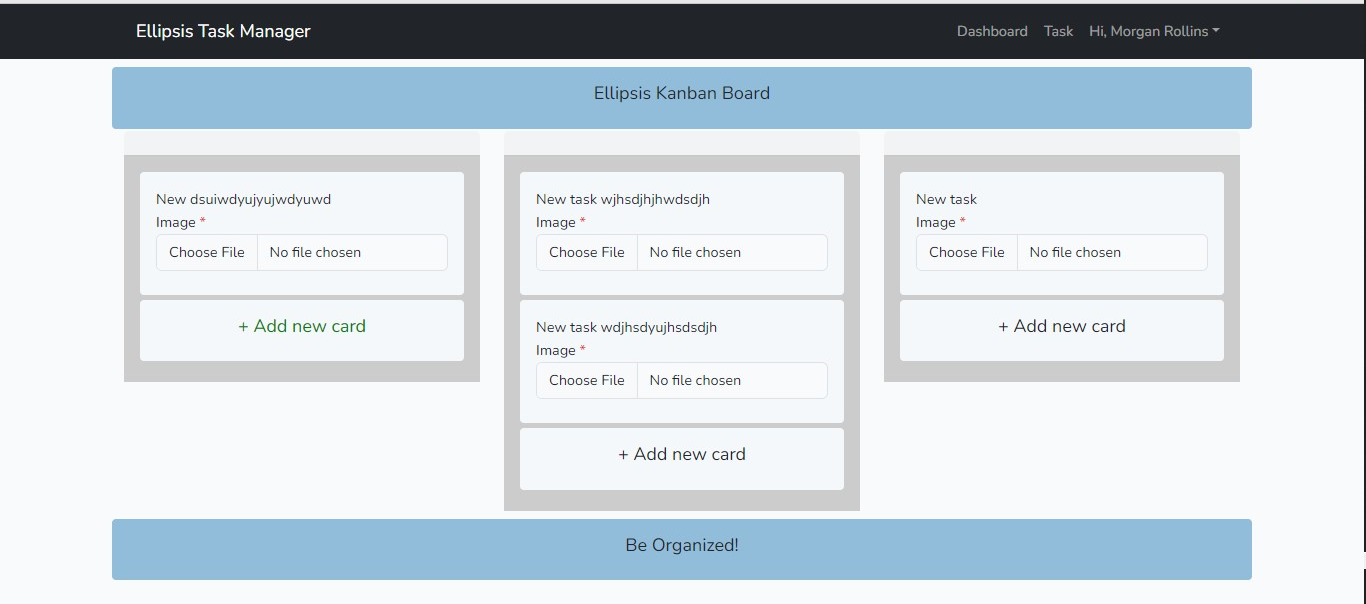
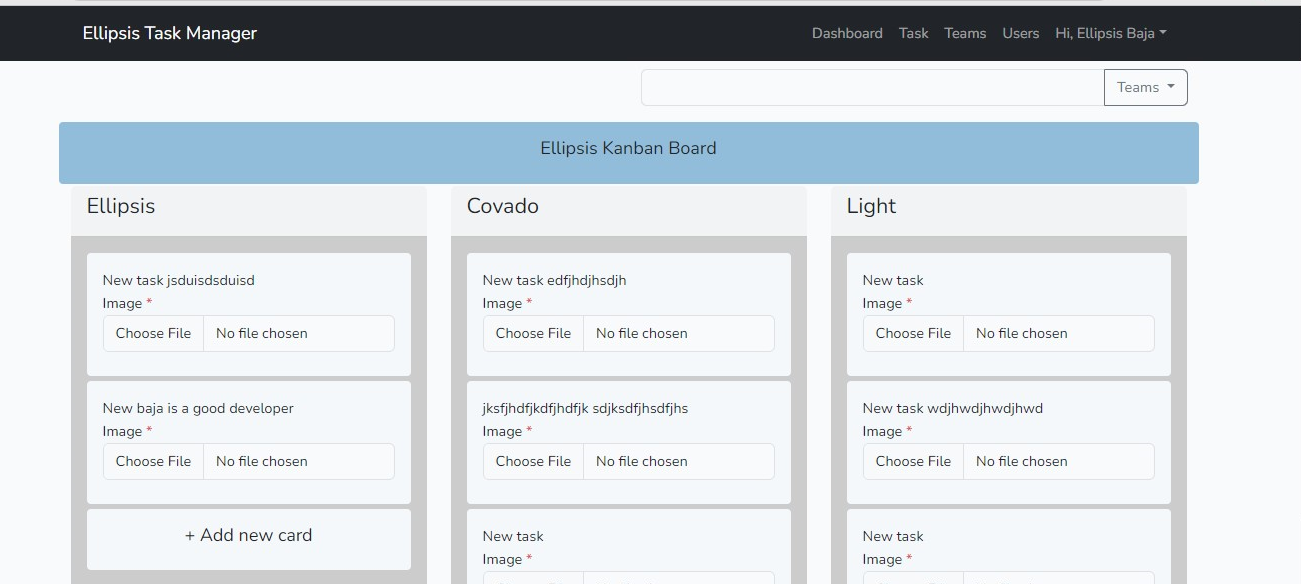
Adding up event broadcasting

diff --git a/resources/js/bootstrap.js b/resources/js/bootstrap.js
@@ -41,17 +41,19 @@ if (user_token) {
  * allows your team to easily build robust real-time web applications.
  */
 
-// import Echo from 'laravel-echo';
+import Echo from 'laravel-echo';
 
-// import Pusher from 'pusher-js';
-// window.Pusher = Pusher;
+import Pusher from 'pusher-js';
+window.Pusher = Pusher;
 
-// window.Echo = new Echo({
-//     broadcaster: 'pusher',
-//     key: import.meta.env.VITE_PUSHER_APP_KEY,
-//     wsHost: import.meta.env.VITE_PUSHER_HOST ?? `ws-${import.meta.env.VITE_PUSHER_APP_CLUSTER}.pusher.com`,
-//     wsPort: import.meta.env.VITE_PUSHER_PORT ?? 80,
-//     wssPort: import.meta.env.VITE_PUSHER_PORT ?? 443,
-//     forceTLS: (import.meta.env.VITE_PUSHER_SCHEME ?? 'https') === 'https',
-//     enabledTransports: ['ws', 'wss'],
-// });
+window.Echo = new Echo({
+    broadcaster: 'pusher',
+    key: import.meta.env.VITE_PUSHER_APP_KEY,
+    wsHost: import.meta.env.VITE_PUSHER_HOST ?? `ws-${import.meta.env.VITE_PUSHER_APP_CLUSTER}.pusher.com`,
+    wsPort: import.meta.env.VITE_PUSHER_PORT ?? 80,
+    wssPort: import.meta.env.VITE_PUSHER_PORT ?? 443,
+    forceTLS: (import.meta.env.VITE_PUSHER_SCHEME ?? 'https') === 'https',
+    enabledTransports: ['ws', 'wss'],
+    encrypted: false,
+    cluster:import.meta.env.VITE_PUSHER_APP_CLUSTER
+});

diff --git a/resources/js/components/User/Edit.vue b/resources/js/components/User/Edit.vue
@@ -129,7 +129,7 @@ export default {
           this.form = res.data.data;
         })
         .catch((error) => {
-          console.log(console.error);
+          console.log(error);
         });
     },
     getRoles() {
@@ -139,7 +139,7 @@ export default {
           this.roles = res.data;
         })
         .catch((error) => {
-          console.log(console.error);
+          console.log(error);
         });
     },
     updateUser() {
@@ -151,7 +151,7 @@ export default {
           this.$router.push({ name: "users" });
         })
         .catch((error) => {
-          console.log(console.error);
+          console.log(error);
         });
     },
   },

diff --git a/resources/js/components/Team/Create.vue b/resources/js/components/Team/Create.vue
@@ -66,7 +66,7 @@ export default {
           this.teams = res.data.data;
         })
         .catch((error) => {
-          console.log(console.error);
+          console.log(error);
         });
     },
     storeTeam() {
@@ -78,7 +78,7 @@ export default {
           this.$router.push({ name: "teams" });
         })
         .catch((error) => {
-          console.log(console.error);
+          console.log(error);
         });
     },
   },

diff --git a/resources/js/components/User/Create.vue b/resources/js/components/User/Create.vue
@@ -127,7 +127,7 @@ export default {
           this.roles = res.data;
         })
         .catch((error) => {
-          console.log(console.error);
+          console.log(error);
         });
     },
     storeUser() {
@@ -142,7 +142,7 @@ export default {
           this.$router.push({ name: "users" });
         })
         .catch((error) => {
-          console.log(console.error);
+          console.log(error);
         });
     },
   },

diff --git a/resources/js/components/Team/Edit.vue b/resources/js/components/Team/Edit.vue
@@ -68,7 +68,7 @@ export default {
           this.form = res.data;
         })
         .catch((error) => {
-          console.log(console.error);
+          console.log(error);
         });
     },
     updateTask() {
@@ -80,7 +80,7 @@ export default {
           this.$router.push({ name: "teams" });
         })
         .catch((error) => {
-          console.log(console.error);
+          console.log(error);
         });
     },
   },

diff --git a/resources/js/components/Board.vue b/resources/js/components/Board.vue
@@ -46,7 +46,7 @@
               <div class="col-md-4">
                 <div class="card">
                   <div class="card-header">
-                    <h4 class="card-title"></h4>
+                    <h4 class="card-title">{{ element.name }}</h4>
                   </div>
                   <div class="card-body card-body-dark">
                     <div class="transit-1">

diff --git a/config/app.php b/config/app.php
@@ -4,17 +4,6 @@ use Illuminate\Support\Facades\Facade;
 
 return [
 
-    /*
-    |--------------------------------------------------------------------------
-    | Application Name
-    |--------------------------------------------------------------------------
-    |
-    | This value is the name of your application. This value is used when the
-    | framework needs to place the application's name in a notification or
-    | any other location as required by the application or its packages.
-    |
-    */
-
     'name' => env('APP_NAME', 'Laravel'),
 
     /*
@@ -191,7 +180,7 @@ return [
          */
         App\Providers\AppServiceProvider::class,
         App\Providers\AuthServiceProvider::class,
-        // App\Providers\BroadcastServiceProvider::class,
+        App\Providers\BroadcastServiceProvider::class,
         App\Providers\EventServiceProvider::class,
         App\Providers\RouteServiceProvider::class,
 

diff --git a/app/Events/TaskCreated.php b/app/Events/TaskCreated.php
@@ -1,0 +1,38 @@
+<?php
+
+namespace App\Events;
+
+use Illuminate\Broadcasting\Channel;
+use Illuminate\Broadcasting\InteractsWithSockets;
+use Illuminate\Broadcasting\PresenceChannel;
+use Illuminate\Broadcasting\PrivateChannel;
+use Illuminate\Contracts\Broadcasting\ShouldBroadcast;
+use Illuminate\Foundation\Events\Dispatchable;
+use Illuminate\Queue\SerializesModels;
+
+class TaskCreated
+{
+    use Dispatchable, InteractsWithSockets, SerializesModels;
+
+    /**
+     * Create a new event instance.
+     *
+     * @return void
+     */
+
+    public function __construct(public $task){}
+
+    /**
+     * Get the channels the event should broadcast on.
+     *
+     * @return \Illuminate\Broadcasting\Channel|array
+     */
+    public function broadcastOn()
+    {
+        return new Channel('newTask');
+    }
+
+    public function broadcastAs(){
+        return 'task-created';
+    }
+}

diff --git a/config/broadcasting.php b/config/broadcasting.php
@@ -39,8 +39,9 @@ return [
                 'host' => env('PUSHER_HOST') ?: 'api-'.env('PUSHER_APP_CLUSTER', 'mt1').'.pusher.com',
                 'port' => env('PUSHER_PORT', 443),
                 'scheme' => env('PUSHER_SCHEME', 'https'),
-                'encrypted' => true,
+                'encrypted' => false,
                 'useTLS' => env('PUSHER_SCHEME', 'https') === 'https',
+                'cluster' => env('PUSHER_APP_CLUSTER'),
             ],
             'client_options' => [
                 // Guzzle client options: https://docs.guzzlephp.org/en/stable/request-options.html

diff --git a/routes/channels.php b/routes/channels.php
@@ -13,6 +13,11 @@ use Illuminate\Support\Facades\Broadcast;
 |
 */
 
-Broadcast::channel('App.Models.User.{id}', function ($user, $id) {
-    return (int) $user->id === (int) $id;
+// Broadcast::channel('App.Models.User.{id}', function ($user, $id) {
+//     return (int) $user->id === (int) $id;
+// });
+
+Broadcast::channel('newTask', function(){
+    return true;
 });
+

diff --git a/app/Http/Controllers/UserController.php b/app/Http/Controllers/UserController.php
@@ -12,8 +12,8 @@ class UserController extends Controller
     public function login(Request $request)
     {
         $credentials = [
-            'email' => request('email'),
-            'password' => request('password')
+            'email' => $request->email,
+            'password' => $request->password
         ];
 
         if (Auth::attempt($credentials)) {

diff --git a/README.md b/README.md
@@ -29,5 +29,6 @@
 
     - composer test
 
+# Ellipsis Task Management Board
 
 ![Alt text](image.png)
